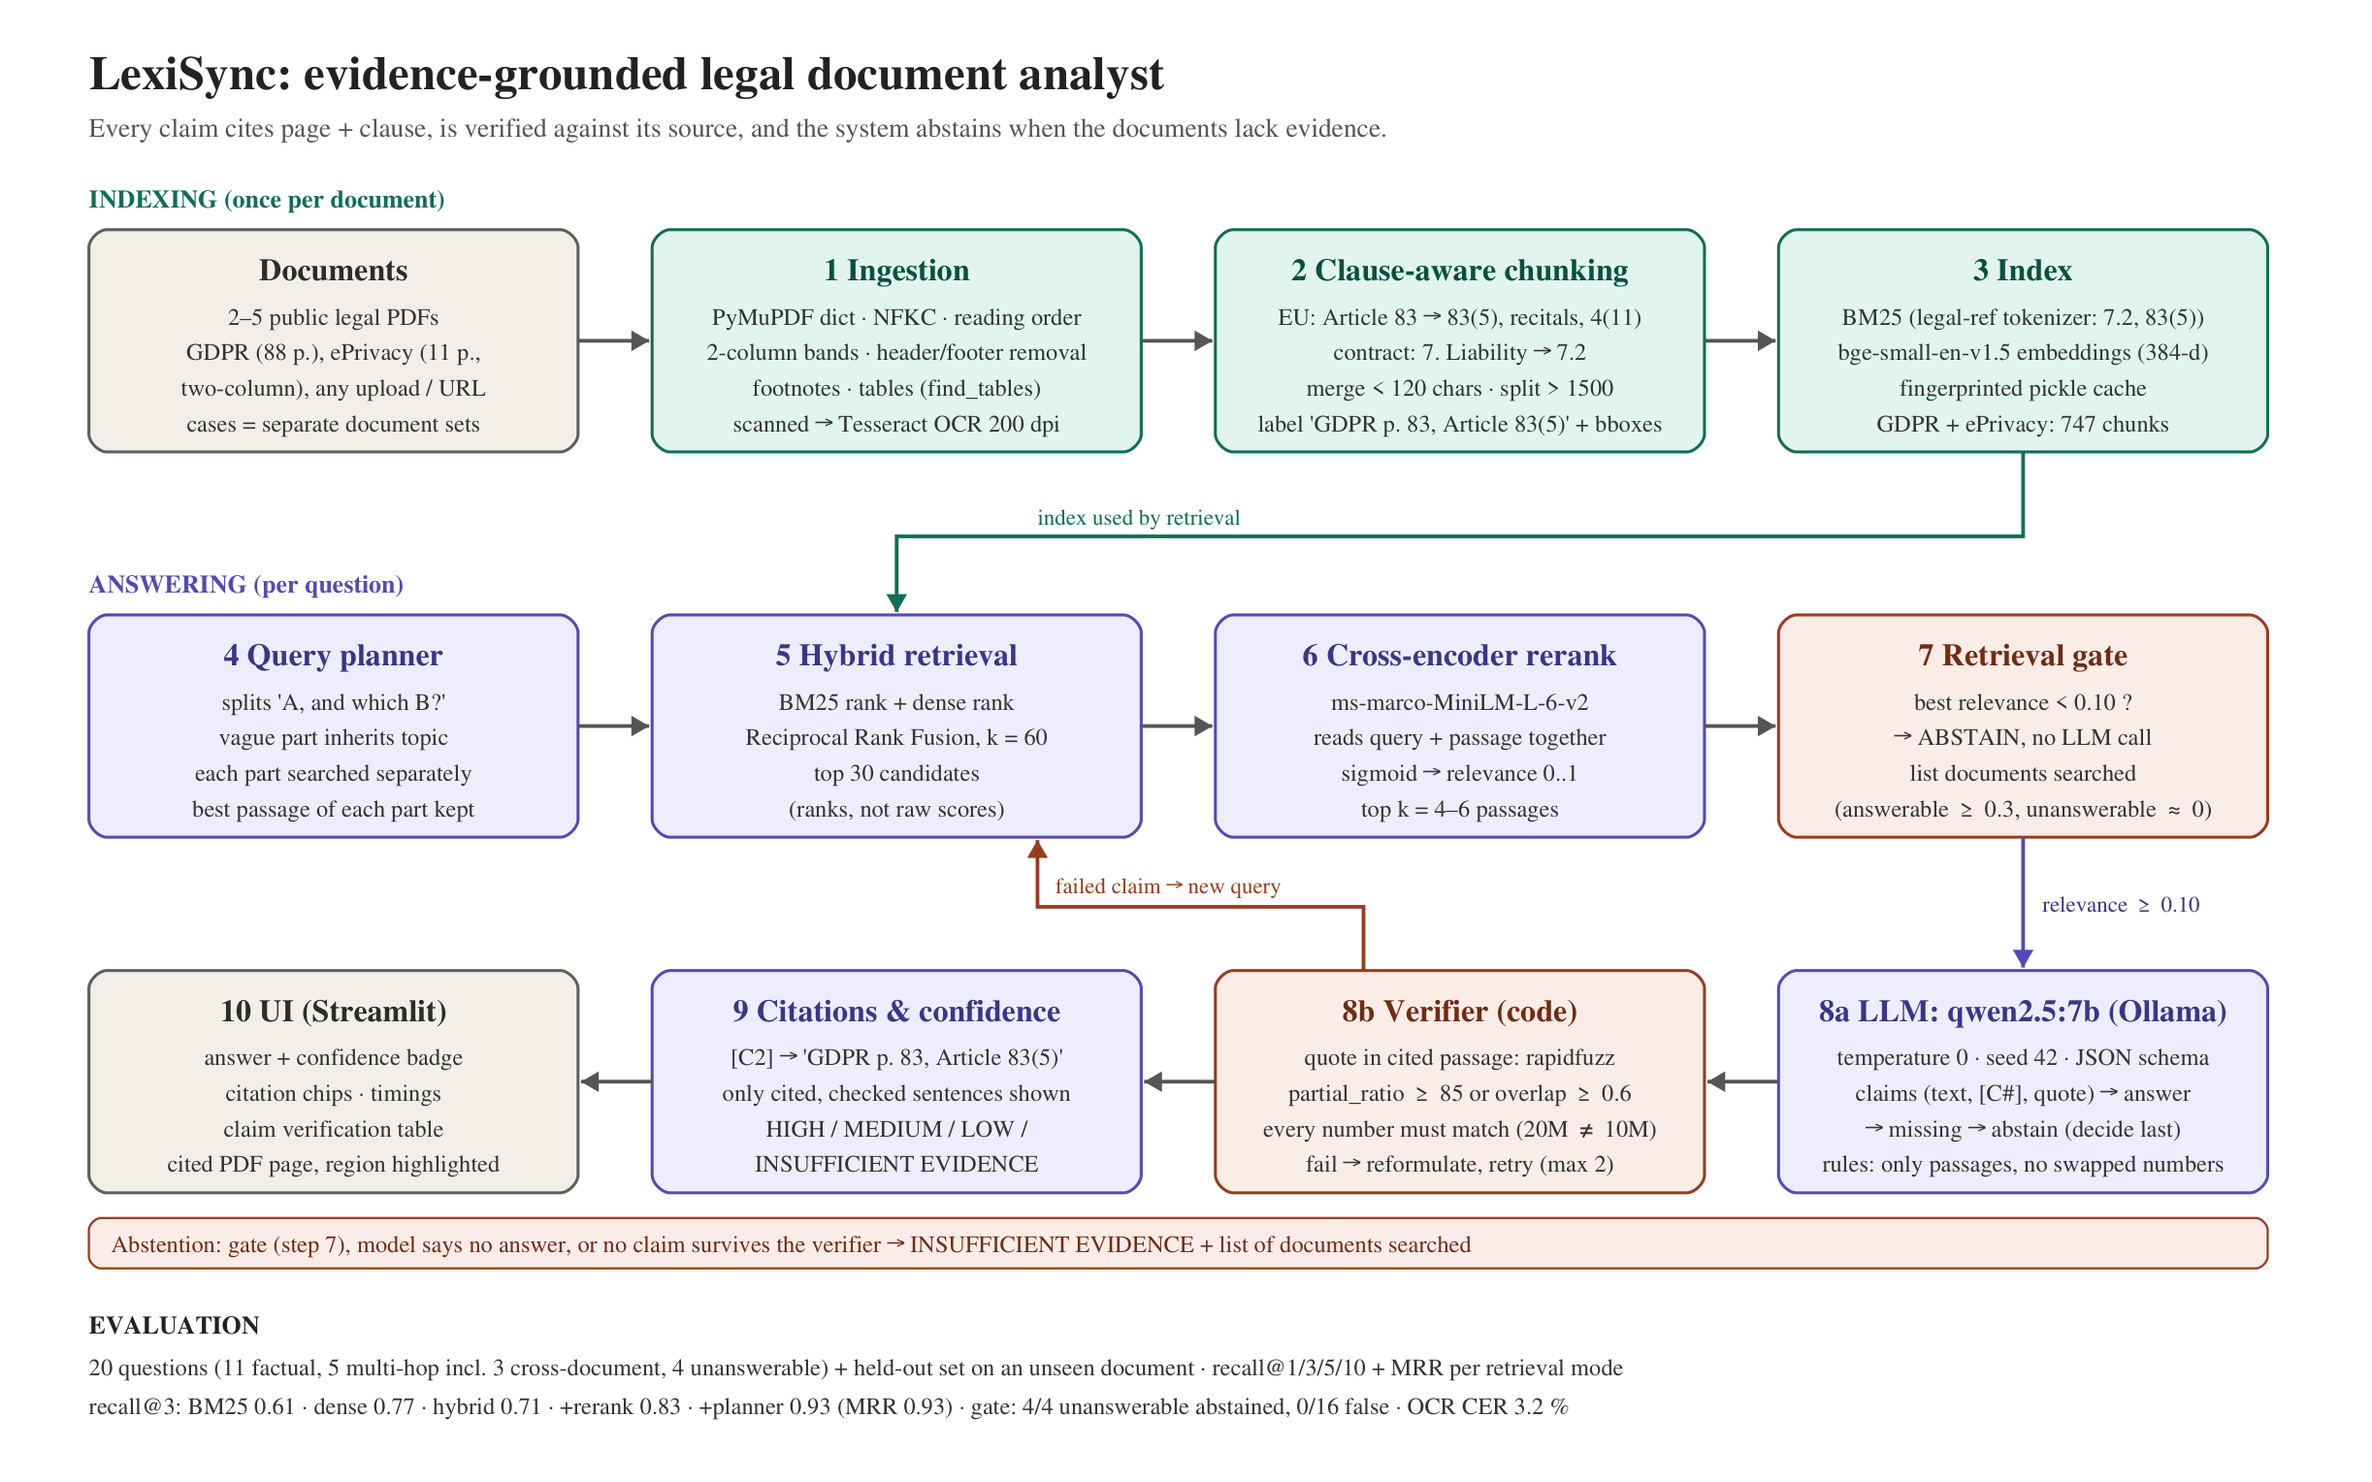
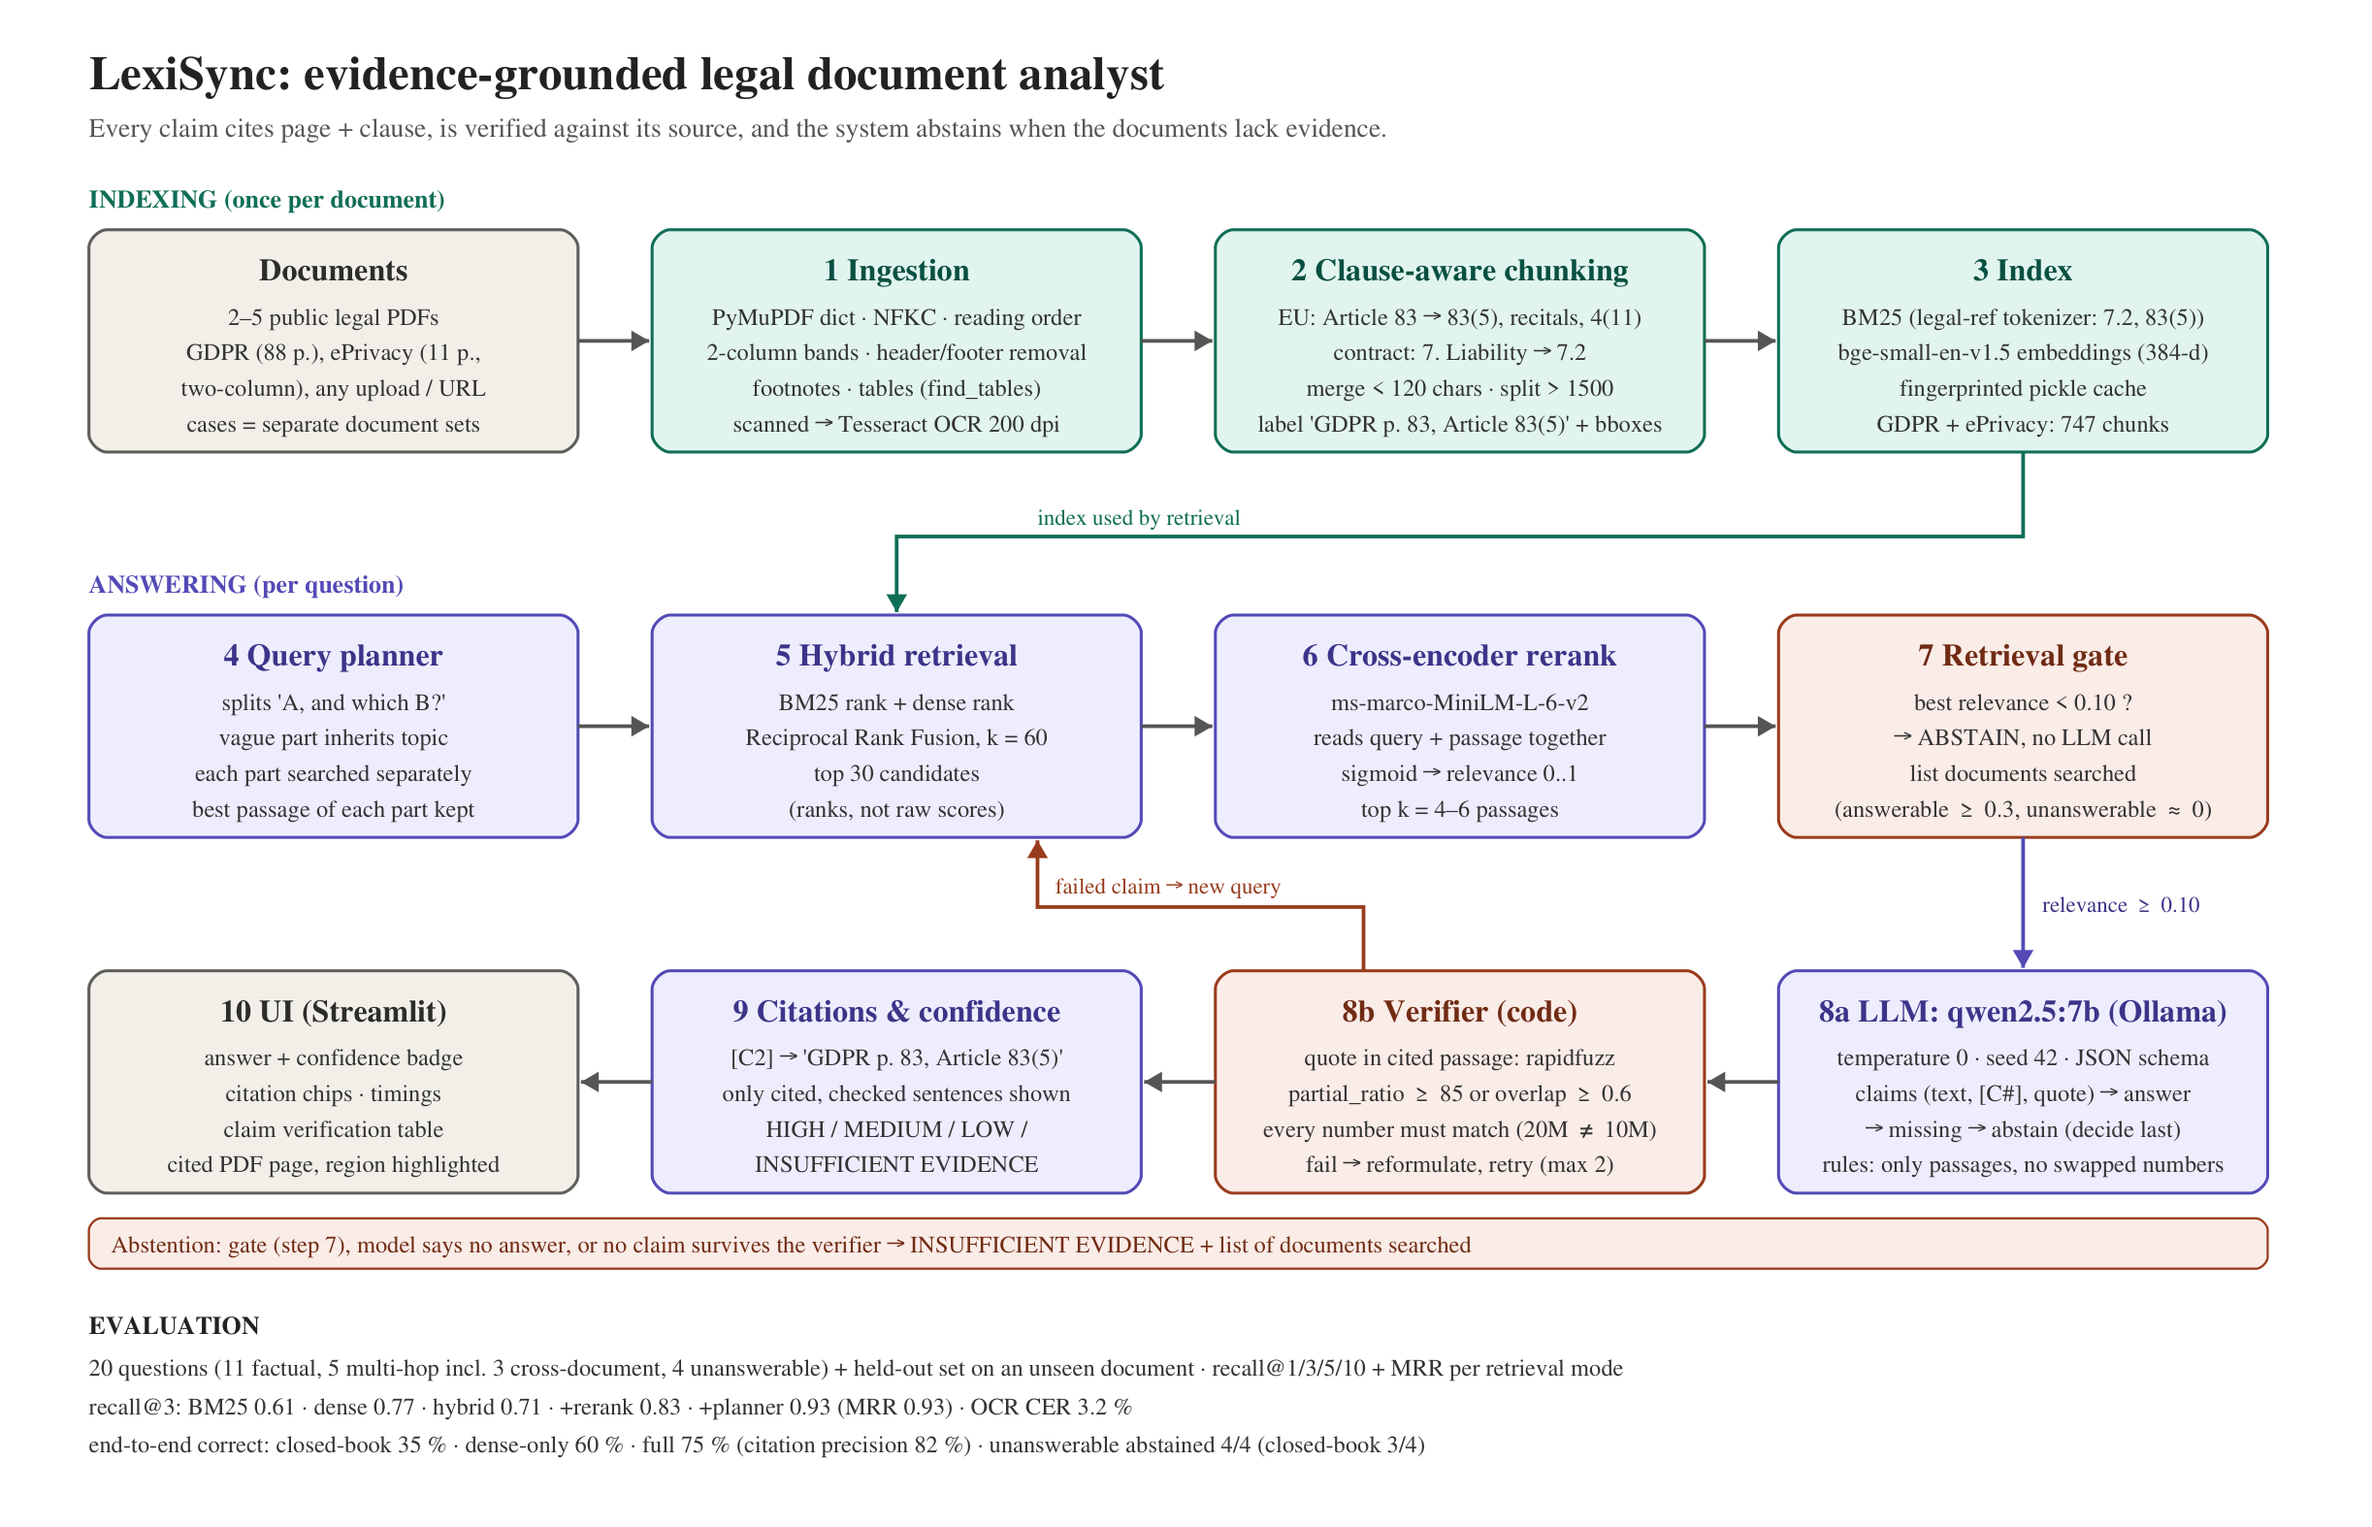
Add end-to-end evaluation results to README and diagram
Claude-Session: https://claude.ai/code/session_01Wm3T87xbTWXUEjigVYymfC

diff --git a/scripts/make_architecture.py b/scripts/make_architecture.py
@@ -13,11 +13,12 @@ ROOT = Path(__file__).resolve().parent.parent
 RESULTS = [
     "20 questions (11 factual, 5 multi-hop incl. 3 cross-document, 4 unanswerable) + held-out "
     "set on an unseen document · recall@1/3/5/10 + MRR per retrieval mode",
-    "recall@3: BM25 0.61 · dense 0.77 · hybrid 0.71 · +rerank 0.83 · +planner 0.93 (MRR 0.93) "
-    "· gate: 4/4 unanswerable abstained, 0/16 false · OCR CER 3.2 %",
+    "recall@3: BM25 0.61 · dense 0.77 · hybrid 0.71 · +rerank 0.83 · +planner 0.93 (MRR 0.93) · OCR CER 3.2 %",
+    "end-to-end correct: closed-book 35 % · dense-only 60 % · full 75 % (citation precision 82 %) "
+    "· unanswerable abstained 4/4 (closed-book 3/4)",
 ]
 
-W, H = 1600, 1000
+W, H = 1600, 1030
 IDX = ("#E1F5EE", "#0F6E56", "#085041")
 ANS = ("#EEEDFE", "#534AB7", "#3C3489")
 SAFE = ("#FAECE7", "#993C1D", "#712B13")

diff --git a/README.md b/README.md
@@ -103,10 +103,31 @@ structure check found 99/99 GDPR articles, 173/173 recitals, 21/21 ePrivacy arti
 Abstention gate: at every threshold from 0.01 to 0.30, 4/4 unanswerable questions abstained
 and 0/16 answerable questions were wrongly abstained (chosen threshold 0.10).
 
-**End-to-end** (six configurations: closed-book LLM, dense-only, full system, full without
-planner, full without verifier, full with k = 4): see `reports/main/report.md` after
-`make eval`. Correctness is scored automatically by key facts and checked by hand in the
-`manual_correct` column of `reports/main/answers.csv`.
+**End-to-end** (20 questions, qwen2.5:7b, automatic key-fact scoring):
+
+| configuration | correct | citation precision | abstention accuracy (4 unanswerable) | false abstention (16 answerable) | latency |
+|---|---|---|---|---|---|
+| closed-book LLM (no retrieval) | 35 % | – | 75 % | 44 % | 16 s |
+| dense retrieval only | 60 % | 76 % | 100 % | 19 % | 33 s |
+| full system (hybrid + rerank + planner + verifier, k = 6) | **75 %** | **82 %** | **100 %** | 12 % | 28 s |
+| full without planner | 70 % | 76 % | 100 % | 12 % | 31 s |
+| full without verifier | 75 % | 75 % | 100 % | 6 % | 24 s |
+| full with k = 4 | 70 % | 81 % | 100 % | 25 % | 29 s |
+
+What this shows:
+- **Retrieval is essential**: without documents the model is right 35 % of the time and
+  invented an answer for one unanswerable question; with the full pipeline 75 % and no
+  invented answers. The four unanswerable questions are stopped by the gate in ~0.3 s,
+  without an LLM call.
+- **Hybrid + rerank beats dense alone** (75 % vs 60 %), and the **planner** adds 5 points of
+  correctness and 6 points of citation precision.
+- **The verifier is a precision/recall trade-off**: same correctness, citation precision
+  75 % → 82 %, but one more correct answer was rejected (false abstention 6 % → 12 %).
+  For legal use we prefer "no answer" to an unsupported citation.
+- **k = 6 beats k = 4**: with only 4 passages two multi-hop questions lost evidence
+  (false abstention 25 %).
+- Full report: `reports/main/report.md`; manual grades go in the `manual_correct` column of
+  `reports/main/answers.csv` (then `python eval/run_eval.py --summary-only`).
 
 **OCR** (synthetic scanned pages with known text, 200 dpi): mean character error rate 3.2 %,
 word error rate 3.5 %; clause-number recall on the hardest page improved from 12 % to 88 %
